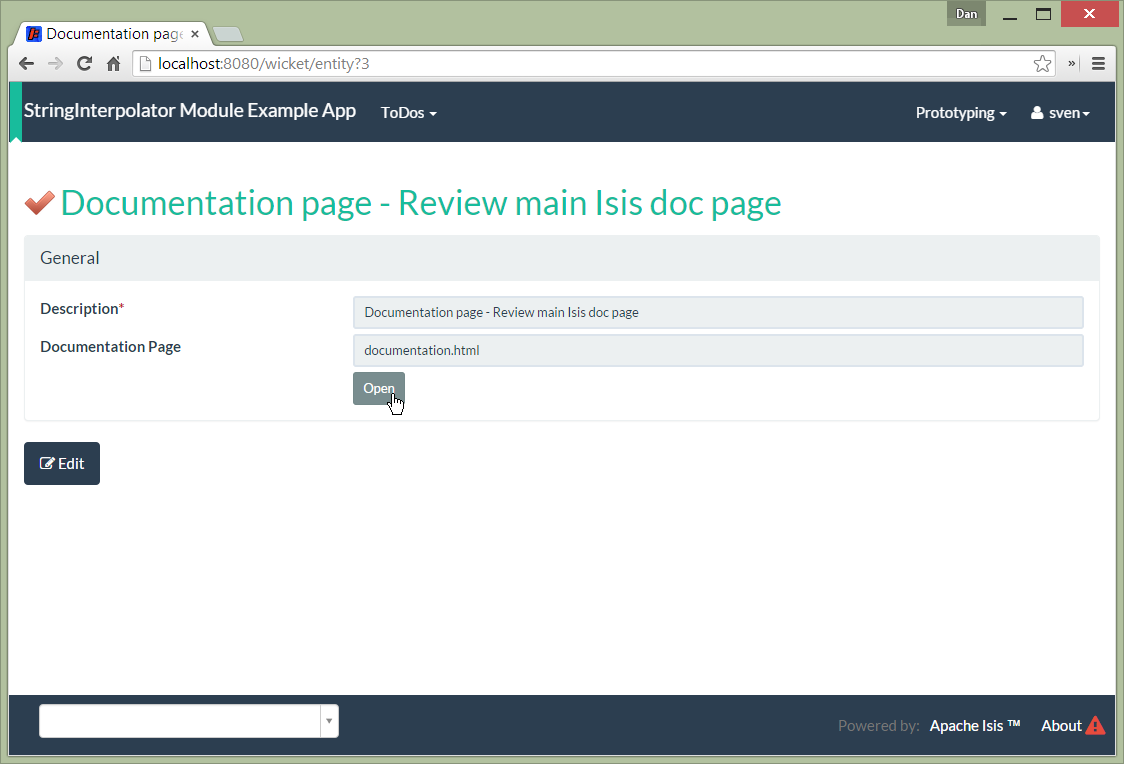
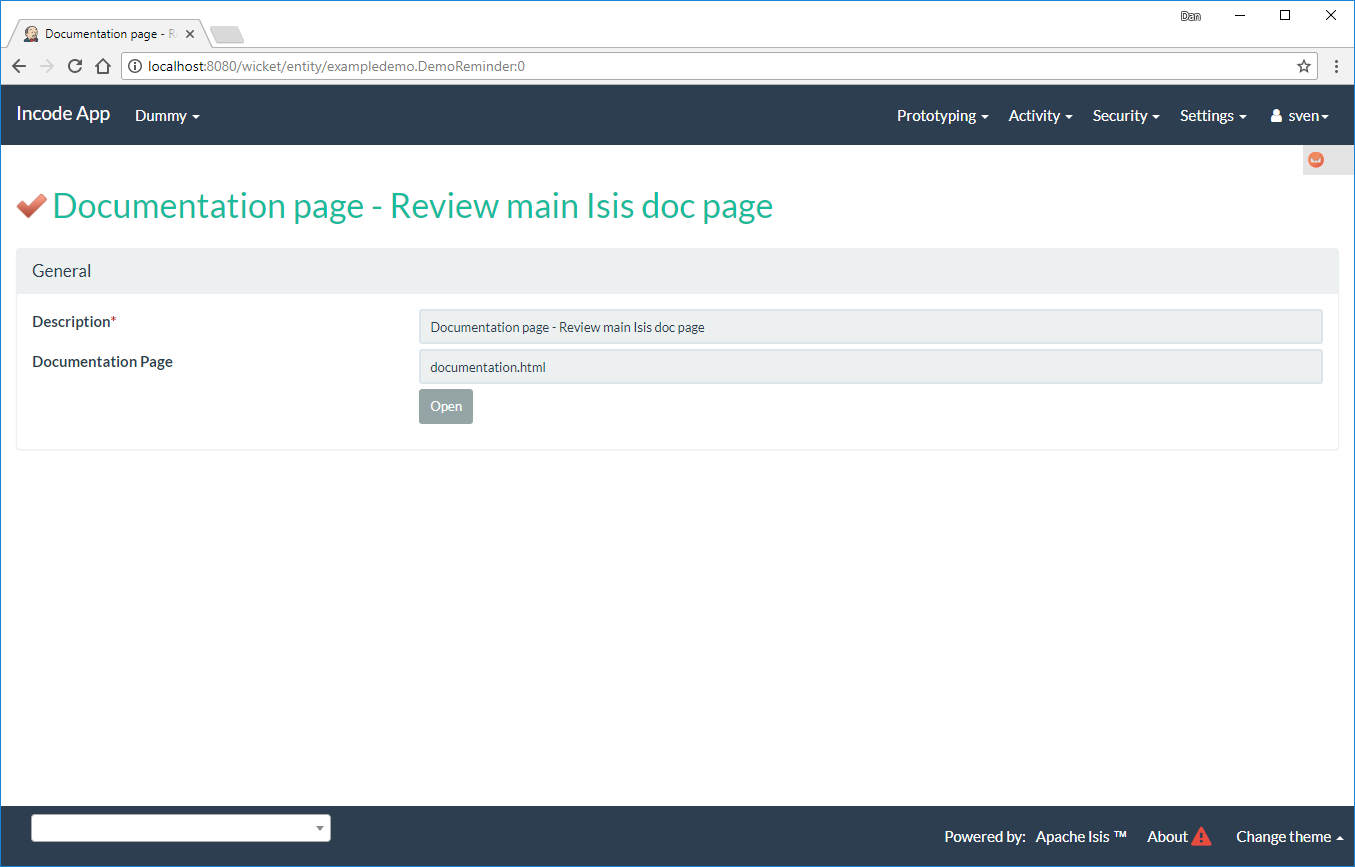
updates screenshots for lib-stringinterpolator

Changed region(s): [[0.0, 0.0, 1.0, 1.0], [0.3114, 0.3613, 0.5605, 0.5419]]

diff --git a/ex/app/quickstart/example/appdefn/src/main/java/org/incode/domainapp/example/app/modules/ExampleDomLibStringInterpolatorAppManifest.java b/ex/app/quickstart/example/appdefn/src/main/java/org/incode/domainapp/example/app/modules/ExampleDomLibStringInterpolatorAppManifest.java
@@ -8,7 +8,6 @@ import org.apache.isis.applib.AppManifestAbstract;
 import org.apache.isis.applib.annotation.CollectionLayout;
 import org.apache.isis.applib.annotation.DomainObject;
 import org.apache.isis.applib.annotation.HomePage;
-import org.apache.isis.applib.annotation.MemberGroupLayout;
 import org.apache.isis.applib.annotation.Nature;
 
 import org.isisaddons.module.security.dom.password.PasswordEncryptionServiceUsingJBcrypt;
@@ -27,6 +26,7 @@ public class ExampleDomLibStringInterpolatorAppManifest extends AppManifestAbstr
 
     public static final Builder BUILDER = DomainAppAppManifestAbstract.BUILDER.withAdditionalModules(
 
+            DemoReminder.class,
             ExampleDomLibStringInterpolatorModule.class,
             StringInterpolatorModule.class
         )
@@ -39,7 +39,8 @@ public class ExampleDomLibStringInterpolatorAppManifest extends AppManifestAbstr
                 // necessary because of ISIS-1710
                 PasswordEncryptionServiceUsingJBcrypt.class,
                 PermissionsEvaluationServiceAllowBeatsVeto.class
-        );
+        )
+        .withConfigurationProperty("isis.website", "http://isis.apache.org");
 
     public ExampleDomLibStringInterpolatorAppManifest() {
         super(BUILDER);

diff --git a/ex/app/quickstart/example/dom/src/main/java/org/incode/domainapp/example/dom/demo/fixture/reminders/DemoReminder_create4.java b/ex/app/quickstart/example/dom/src/main/java/org/incode/domainapp/example/dom/demo/fixture/reminders/DemoReminder_create4.java
@@ -12,9 +12,9 @@ public class DemoReminder_create4 extends FixtureScript {
     public void execute(final ExecutionContext ec) {
 
         createToDoItem("Documentation page - Review main Isis doc page", "documentation.html", ec);
-        createToDoItem("Screenshots - Review Isis screenshots", "intro/elevator-pitch/isis-in-pictures.html", ec);
-        createToDoItem("Lookup some Isis articles", "intro/learning-more/articles-and-presentations.html", ec);
-        createToDoItem("Learn about profiling in Isis", "reference/services/command-context.html", ec);
+        createToDoItem("Screenshots - Review Isis screenshots", "pages/isis-in-pictures/isis-in-pictures.html", ec);
+        createToDoItem("Lookup some Isis articles", "pages/articles-and-presentations//articles-and-presentations.html", ec);
+        createToDoItem("Learn about profiling in Isis", "guides/rgsvc/rgsvc.html#_rgsvc_application-layer-api_CommandContext", ec);
 
         transactionService.flushTransaction();
     }
